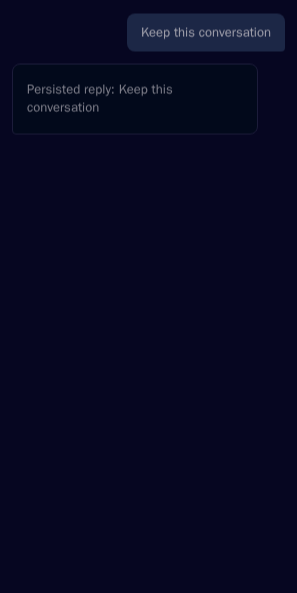
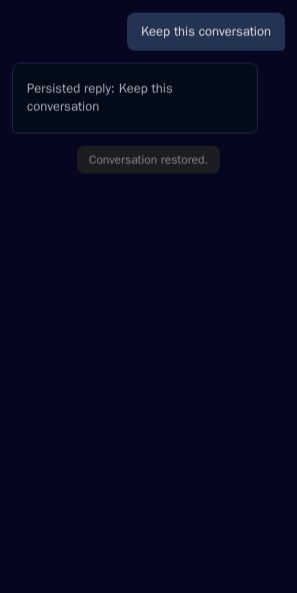
fix(session): render replay through sanitizer

diff --git a/src/test/chat.test.ts b/src/test/chat.test.ts
@@ -948,7 +948,7 @@ suite("ChatViewProvider", () => {
       ]);
     });
 
-    test("escapes agent-provided HTML when replaying markdown", async () => {
+    test("keeps raw replay text for the webview sanitizer", async () => {
       class LoadingClient extends TestACPClient {
         isConnected(): boolean {
           return true;
@@ -1005,9 +1005,15 @@ suite("ChatViewProvider", () => {
       const completed = messages.find(
         (message) => message.type === "replayComplete"
       );
-      const replayed = completed?.messages as Array<{ html?: string }>;
-      assert.ok(replayed[0].html?.includes("&lt;button"));
-      assert.ok(!replayed[0].html?.includes("<button"));
+      const replayed = completed?.messages as Array<{
+        text: string;
+        html?: unknown;
+      }>;
+      assert.strictEqual(
+        replayed[0].text,
+        '<button class="permission-modal">Allow</button>'
+      );
+      assert.ok(!("html" in replayed[0]));
     });
 
     test("does not save a late prompt into a loaded session", async () => {

diff --git a/src/views/webview/main.ts b/src/views/webview/main.ts
@@ -1012,7 +1012,6 @@ export class WebviewController {
     this.updateViewState();
   }
 
-
   private showReplayStatus(message = "Restoring conversation…"): void {
     if (!this.replayStatusEl) {
       this.replayStatusEl = this.doc.createElement("div");
@@ -1176,8 +1175,9 @@ export class WebviewController {
         break;
       case "toolCallStart":
         if (msg.toolCallId && msg.name) {
-          // Finalize any preceding text, including whitespace-only content.
-          if (this.currentAssistantMessage) {
+          // Keep a whitespace-only bubble alive until stream end so its tool
+          // card renders through the same finalized Markdown path.
+          if (this.currentAssistantText.trim()) {
             this.finalizeCurrentMessage();
             this.currentAssistantMessage = null;
             this.currentAssistantText = "";

diff --git a/src/test/webview.test.ts b/src/test/webview.test.ts
@@ -1560,7 +1560,7 @@ suite("Webview", () => {
       ) as HTMLElement[];
       assert.strictEqual(messages.length, 3);
       assert.strictEqual(messages[0].textContent, "Restored question");
-      assert.strictEqual(messages[1].textContent, "Restored answer");
+      assert.strictEqual(messages[1].textContent?.trim(), "Restored answer");
       assert.strictEqual(messages[2].textContent, "Conversation restored.");
       assert.ok(!messages[1].innerHTML.includes("Restored answer<p>"));
     });
@@ -1571,7 +1571,7 @@ suite("Webview", () => {
         messages: [
           {
             role: "assistant",
-            text: "<script>window.replayXss = true</script><button>Blocked</button>**Safe**",
+            text: "**Safe**\n<script>window.replayXss = true</script><button>Blocked</button>",
           },
         ],
       });

diff --git a/src/views/chat.ts b/src/views/chat.ts
@@ -26,7 +26,6 @@ import type {
   RequestPermissionResponse,
 } from "@agentclientprotocol/sdk";
 
-
 const SELECTED_AGENT_KEY = "vscode-acp.selectedAgent";
 const SELECTED_MODE_KEY = "vscode-acp.selectedMode";
 const SELECTED_MODEL_KEY = "vscode-acp.selectedModel";
